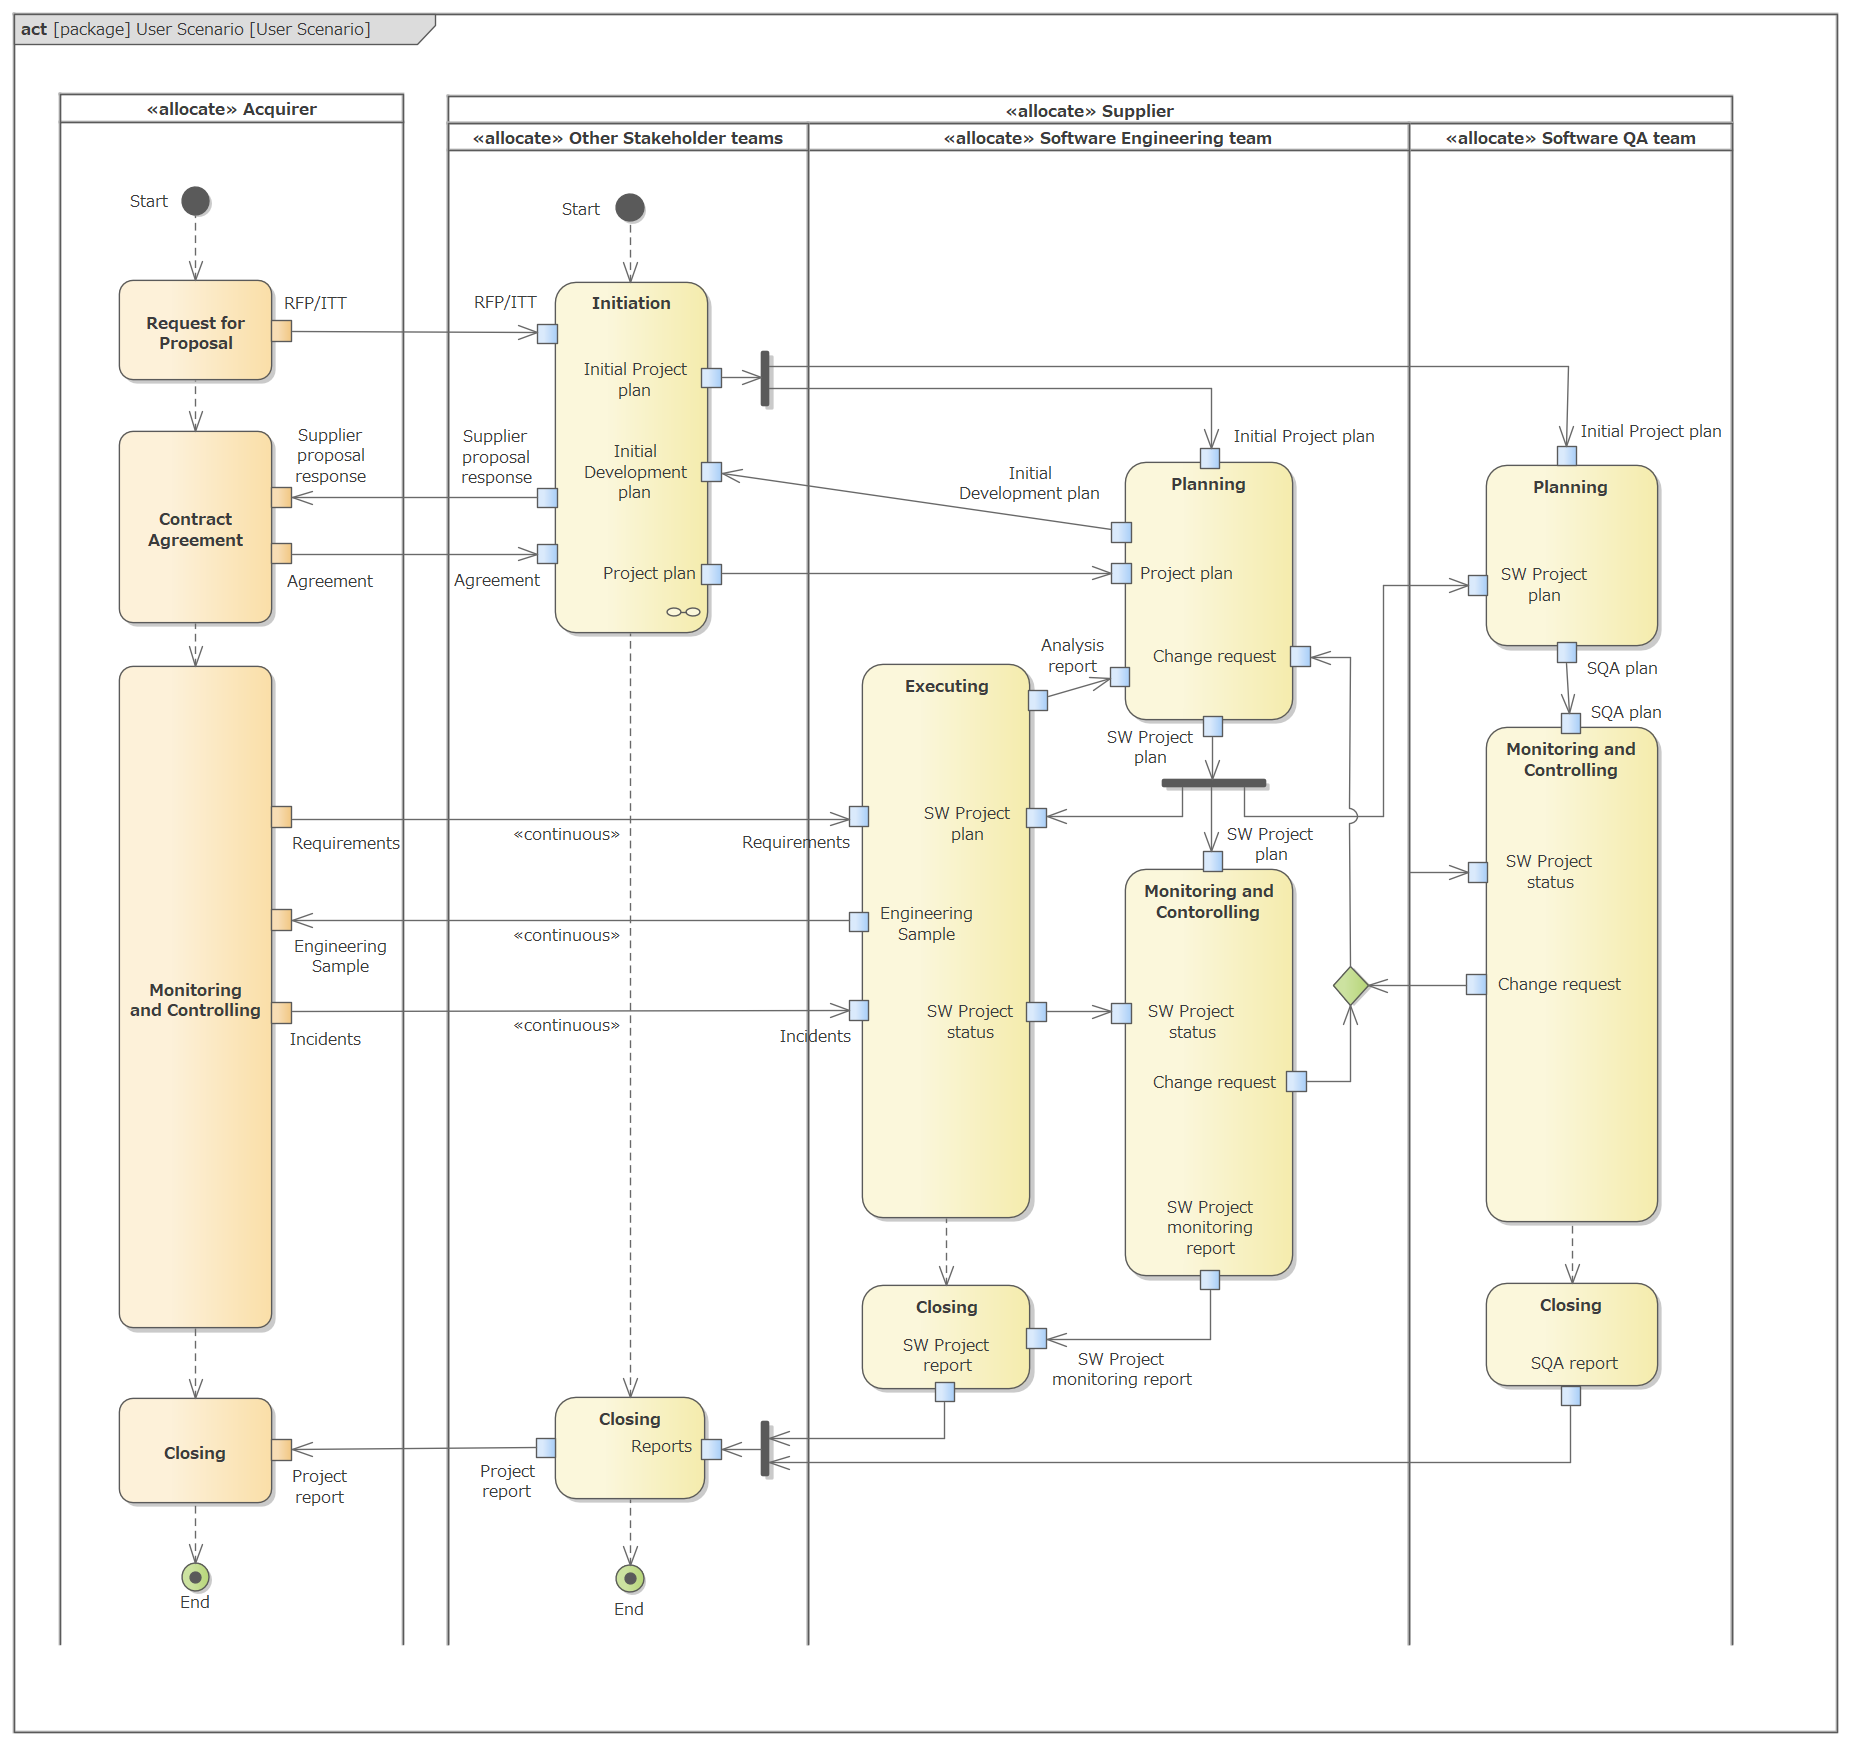
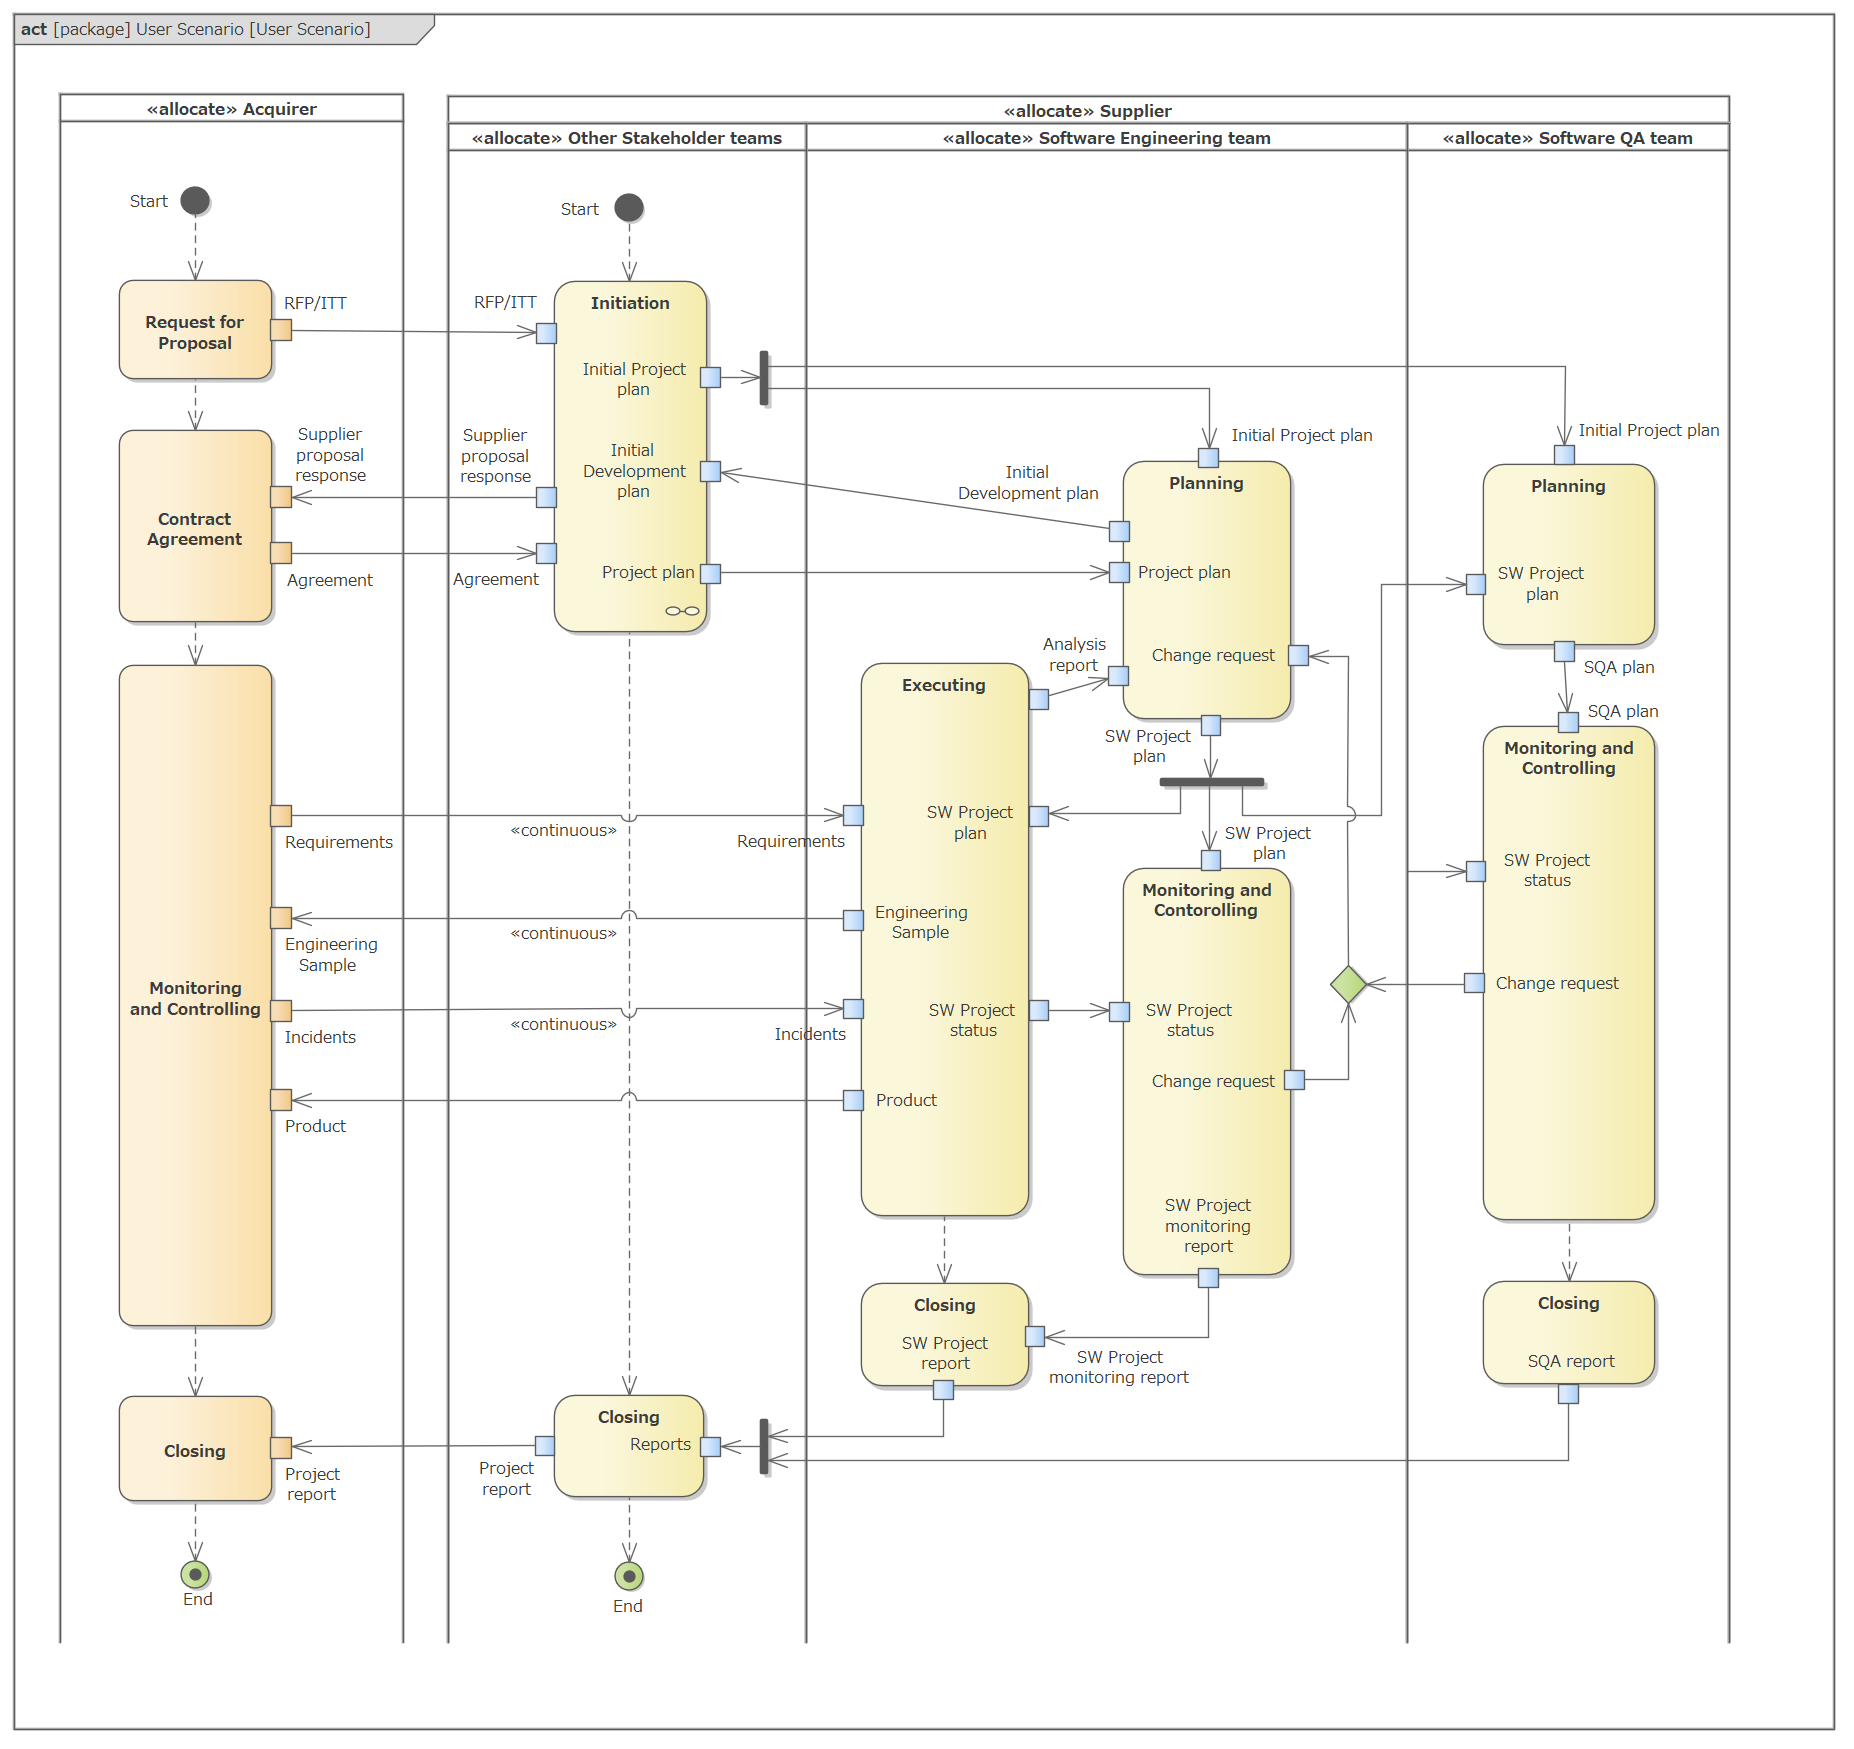
refactor: modified User Scenario diagram and added its description.

diff --git a/README.md b/README.md
@@ -1,24 +1,26 @@
 # Ghost
 
-**G**it**H**ub / **G**it **H**osting service **O**riented **S**PICEE **T**emplates.
+**G**it**H**ub / **G**it-**H**osting-service **O**riented **S**PICEE **T**emplates.
 
 Ghost is software development process templates for embedded software industry.
 In particular, it is designed for the automotive industry by adopting Automotive SPICE.
 
 Ghostは、組み込みソフトウェア業界向けのソフトウェア開発プロセスのテンプレートです。
-特にAUTOMOTIVE-SPICEを採用することで、自動車業界向けに設計されています。
+特にAutomotive SPICEを採用することで、自動車業界向けに設計されています。
 
 ## TOC <!-- omit in toc -->
 
 - [1. Version and Stability](#1-version-and-stability)
 - [2. Motivation](#2-motivation)
-- [3. Focus](#3-focus)
+- [3. Focuses](#3-focuses)
 - [4. Ghost Process Architecture](#4-ghost-process-architecture)
   - [4.1. Internal Architecture](#41-internal-architecture)
     - [4.1.1. Application layer](#411-application-layer)
     - [4.1.2. Middlware layer](#412-middlware-layer)
     - [4.1.3. Tool Abstraction layer](#413-tool-abstraction-layer)
   - [4.2. External Architecture](#42-external-architecture)
+- [5. How to get started](#5-how-to-get-started)
+- [6. More about Ghost](#6-more-about-ghost)
 
 ## 1. Version and Stability
 
@@ -35,31 +37,37 @@ Ghostは、組み込みソフトウェア業界向けのソフトウェア開発
 | [Issue Management](process/IssueManagement.md) | (1) Experimental | 本体＋IssueTypeプラグインによる構成。本体はコンセプトは書ききってみたので読み取れるか。プラグインは、変更依頼管理のみ。ざくっと書いてある。
 | [Work product Management](process/WorkproductManagement.md) | (1) Experimental | これがたぶん一番大きなプロセスになる。それなりに書ききってみた。
 
+<br>
+
 ## 2. Motivation
 
-小さな企業あるいは小さなソフトウェア開発チームが、自動車業界あるいはロボット業界に参入する機会が増えています。
-それら企業・チームには、ベースになる定義済みプロセスが存在しないか部分的であることも多く、０からプロセスの策定をはじめることが少なくありません。
+小さな企業あるいは小さなソフトウェア開発チームが、自動車業界やロボット業界に参入する機会が増えています。
+それら企業・チームには、ベースになる定義済みプロセスが存在しないか部分的であることが多く、０からプロセスの策定をはじめることも少なくありません。
 
-Ghostは、そうした小さなチームがソフトウェア開発プロセスを策定する際に、ベースとして使えるプロセステンプレートを提供することを目的としてます。
+Ghostは、そうした小さなチームがソフトウェア開発プロセスを策定する際に、ベースとして使えるプロセステンプレートを提供することを目的としています。
 
-## 3. Focus
+<br>
+
+## 3. Focuses
 
 次の３点にフォーカスします。
 
 1. Git Hosting service Oriented
 
    - ウォーターフォール全盛だったころ各社の開発プロセスの実体は本当にバラバラでしたが、GitHubを多くのエンジニアが使うようになってからGit Hosting service + Issue Tracking Service + CI/CDなどによる開発プロセスが多く提案され、特に構成管理や課題管理などのいわゆるサポートプロセスはかなり似た形に落ち着くことが多くなっています。
-   - Ghostは、そうしたGitHub以降Git Hosting serviceを中心に発展したコミュニティ発のプラクティスをベースにします。
+   - Ghostは、それらGitHub以降Git Hosting serviceを中心に発展したコミュニティ発のプラクティスをベースにした、軽量なプロセスを目指します。
 
 2. SPICEE
 
    - Automotive SPICE(Software Process Improvement and Capability dEtermination)を、プロセスへの要件として参照しています。
-   - 機能安全規格や自動運転ならSOTIFなどへ対応が必要になったときに「困らない程度に足場固めを済ませておく」ことを目標とします。
+   - 機能安全規格や自動運転ならSOTIFなどへ対応が必要になったときに「困らない程度に足場固めを済ませておく」ことを目指します。
 
 3. Templates
 
-   - Ghostは、多くの企業にとって非競争領域であることの多いサポートプロセス群をミドルウェアレイヤに配置し、競争力の源泉であるソフトウェアエンジニアリング、品質保証、プロジェクトマネジメントの各プロセスをアプリケーションレイヤに配しています。
-   - さらにこれらアプリケーションをスケルトンとプラグインに分離することで、各社が固有の技術資産としてのプロセス（プラグイン部分）を蓄積しやすくなることを目指しています。
+   - Ghostは、多くの企業にとっては非競争領域であるサポートプロセス群をミドルウェアレイヤに配置し、競争力の源泉であるソフトウェアエンジニアリング、品質保証、プロジェクトマネジメントの各プロセスをアプリケーションレイヤに配しています。
+   - そしてこれらアプリケーションをスケルトンとプラグインに分離したテンプレートを提供することで、各社が固有の技術資産としてのプロセス（プラグイン部分）を蓄積しやすくなることを目指しています。
+
+<br>
 
 ## 4. Ghost Process Architecture
 
@@ -71,7 +79,7 @@ Ghostは、そうした小さなチームがソフトウェア開発プロセス
 
 | ![[@fig:puml PUML.README::]](process/README/Ghost_Process_Orverview.png) |
 | :-: |
-| fig.4.1 Ghost process Overview
+| fig.4.1 Internal architecture
 
 - 図中のScrumは例です。
   必ずしもScrumを前提していません。
@@ -84,9 +92,9 @@ Ghostは、そうした小さなチームがソフトウェア開発プロセス
 2. [Software Quality Assurance](process/SoftwareQualityAssurance.md)
 3. [Project Management](process/ProjectManagement.md)
 
-ソフトウェアを開発し、その品質を保証して、プロジェクトゴールへ到達します。
+ソフトウェアを開発し(1)、その品質を保証して(2)、プロジェクトゴールへ到達します(3)。
 
-Ghostは各アプリケーションのスケルトンとプラグインから構成され、開発チームが固有のプラグインを開発・蓄積することで技術的資産となることを想定しています。
+Ghostは各アプリケーションのスケルトンとプラグインから構成され、開発チームが固有のプラグインを開発することで技術的資産として蓄積されることを想定しています。
 
 上記に加えて、これらアプリケーションを全体統括する`main.c`に相当する以下のプロセスがあります。
 プロセスがどんな起動～終結シーケンスをたどるのかはこれを見てください。
@@ -114,4 +122,30 @@ Git hosting serviceやIssue tracking serviceを抽象化するプラグインレ
 
 | ![@fig:puml PUML.README::](domain/architecture/docs/SYS2%20-%20System%20Requirements%20Analysis/fig/User_Scenario.png) |
 | :-: |
-| fig.4.1 User Scenario
+| fig.4.2 User Scenario
+
+Ghost processは、図中のSoftware Engineering teamを対象としています。
+
+- 図中のOther stakeholder teamsは、セールス部署やシステム開発部署、ハードウェア開発部署を想定しています。
+  プロジェクト全体の提案書提出や契約合意、システム開発についてはそれらのチームで行われます。
+- 開発部署からの独立性を要求されるソフトウェア品質保証活動のために、Software QA teamを想定します。
+
+通常システム開発部署からソフトウェア要件が提供され、ハードウェア開発部署から制約事項などが提供されますが、ソフトウェア要件の詳細やシステムインテグレートに伴う仕様調整はAcquirer（顧客など調達者）と直接やり取りすることが多くあります。
+
+また、自動運転システムやロボット制御システムなど高度な統合制御システムではイテレーティブな開発が前提となり、そのためソフトウェアへの要求追加や変更要求がシステム開発の収束まで続きます。
+
+このためGhostでは、ソフトウェア要件（Requirements）はAcquirerから継続的にやってくることを前提し、これに対してSftware Engineering teamはEngineering Sampleを継続的に提供し、その結果として次の要件（Requirements）あるいはインシデント（incidents、不具合・問題など）が継続的にやってくることを想定しています。
+
+- 社内システム統合部署との関係も同じですが、図中にはAcquirerとの関係のみ表現しています。
+
+<br>
+
+## 5. How to get started
+
+<br>
+
+## 6. More about Ghost
+
+<br>
+
+^ [top](#ghost)
